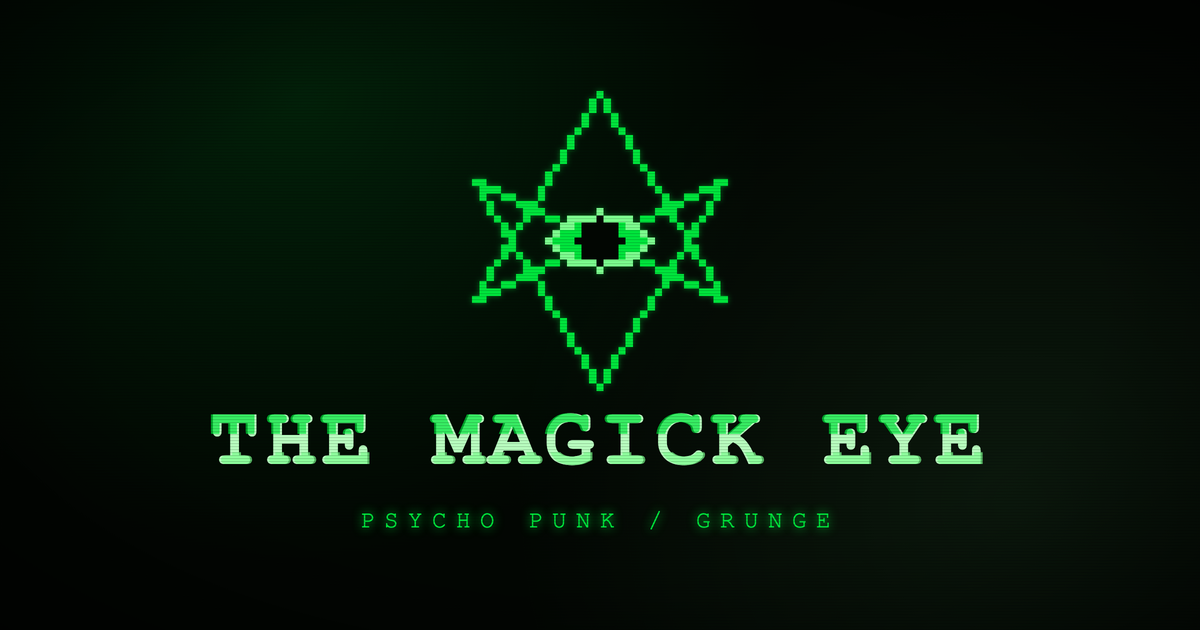
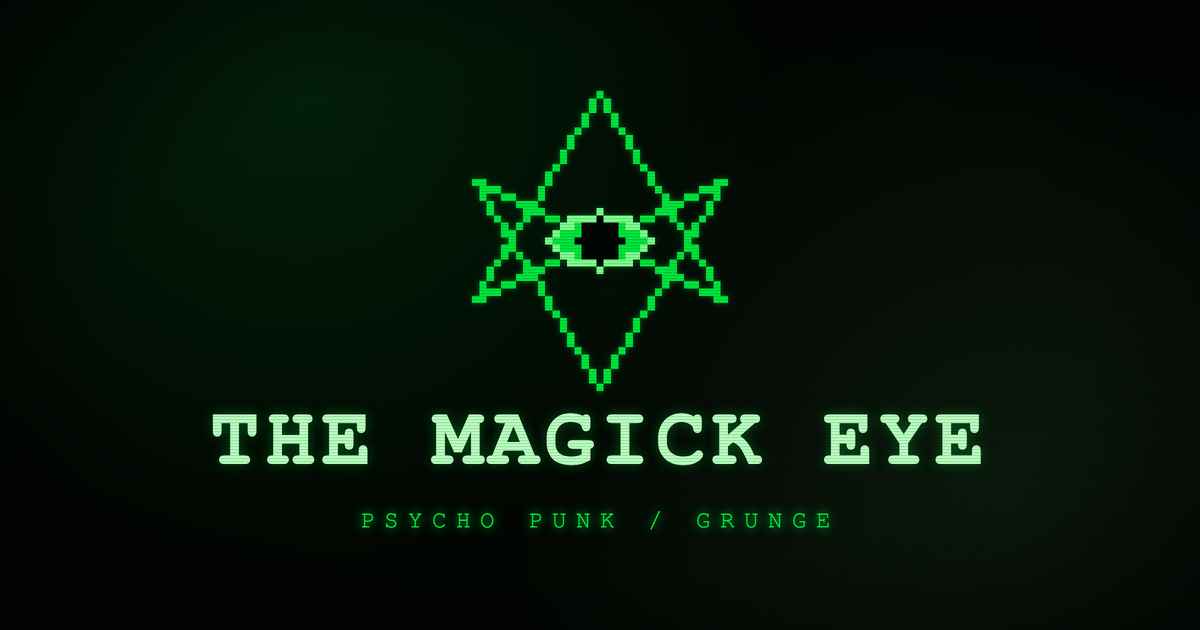
Teaser bez glitcha + cache-bust og:image (v=2)
Czysta, w pełni czytelna nazwa (bez chromatycznego splitu).
URL obrazka z ?v=2, by FB/iMessage pobrały nową wersję mimo cache.

Changed region(s): [[0.3392, 0.6333, 0.6475, 0.754], [0.6783, 0.6333, 0.8325, 0.754], [0.1542, 0.6333, 0.3083, 0.754]]

diff --git a/index.html b/index.html
@@ -13,12 +13,12 @@
   <meta property="og:title" content="The Magick Eye">
   <meta property="og:description" content="The Magick Eye — oficjalna strona zespołu: muzyka, wideo, koncerty i linki.">
   <meta property="og:url" content="https://themagickeye.github.io/">
-  <meta property="og:image" content="https://themagickeye.github.io/og-teaser.png">
+  <meta property="og:image" content="https://themagickeye.github.io/og-teaser.png?v=2">
   <meta property="og:image:width" content="1200">
   <meta property="og:image:height" content="630">
   <meta property="og:image:alt" content="The Magick Eye — pieczęć z okiem, fosforowa zieleń na czerni">
   <meta name="twitter:card" content="summary_large_image">
-  <meta name="twitter:image" content="https://themagickeye.github.io/og-teaser.png">
+  <meta name="twitter:image" content="https://themagickeye.github.io/og-teaser.png?v=2">
   <link rel="icon" type="image/svg+xml" href="favicon.svg">
   <link rel="preconnect" href="https://fonts.googleapis.com">
   <link rel="preconnect" href="https://fonts.gstatic.com" crossorigin>

diff --git a/en/index.html b/en/index.html
@@ -13,12 +13,12 @@
   <meta property="og:title" content="The Magick Eye">
   <meta property="og:description" content="The Magick Eye — official band site: music, videos, shows and links.">
   <meta property="og:url" content="https://themagickeye.github.io/en/">
-  <meta property="og:image" content="https://themagickeye.github.io/og-teaser.png">
+  <meta property="og:image" content="https://themagickeye.github.io/og-teaser.png?v=2">
   <meta property="og:image:width" content="1200">
   <meta property="og:image:height" content="630">
   <meta property="og:image:alt" content="The Magick Eye — eye seal, phosphor green on black">
   <meta name="twitter:card" content="summary_large_image">
-  <meta name="twitter:image" content="https://themagickeye.github.io/og-teaser.png">
+  <meta name="twitter:image" content="https://themagickeye.github.io/og-teaser.png?v=2">
   <link rel="icon" type="image/svg+xml" href="../favicon.svg">
   <link rel="preconnect" href="https://fonts.googleapis.com">
   <link rel="preconnect" href="https://fonts.gstatic.com" crossorigin>
